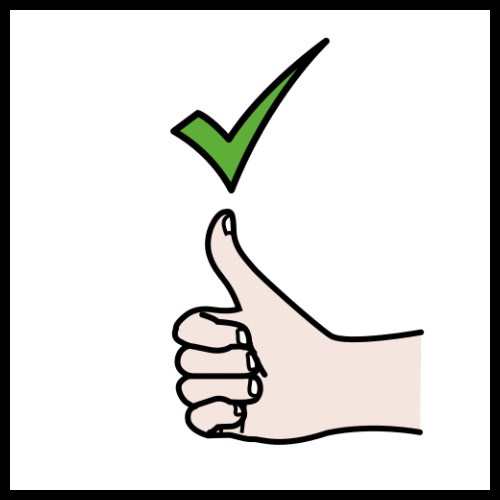
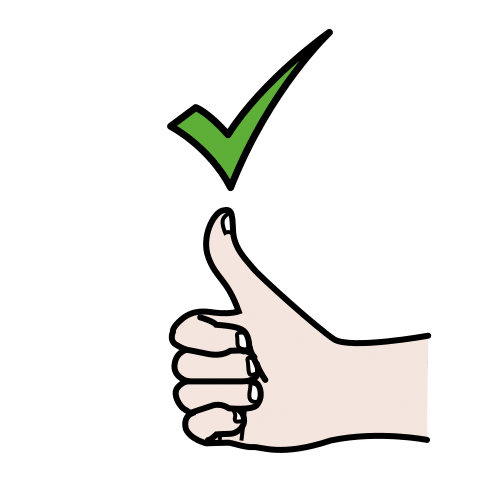
update

diff --git a/frontend/src/pages/auth/StudentLogin.tsx b/frontend/src/pages/auth/StudentLogin.tsx
@@ -49,6 +49,13 @@ export default function StudentLoginUnified() {
   const [selectedPictos, setSelectedPictos] = useState<string[]>([]);
   const [loading, setLoading] = useState(false);
   const [error, setError] = useState('');
+  
+  // Touch/swipe state
+  const [touchStart, setTouchStart] = useState<number | null>(null);
+  const [touchEnd, setTouchEnd] = useState<number | null>(null);
+  
+  // Minimum swipe distance (in px)
+  const minSwipeDistance = 50;
    
   const getLayoutConfig = () => {
     const w = window.innerWidth;
@@ -226,6 +233,31 @@ export default function StudentLoginUnified() {
       setGridPage(index);
     }
   };
+  
+  // Touch handlers para swipe
+  const onTouchStart = (e: React.TouchEvent) => {
+    setTouchEnd(null);
+    setTouchStart(e.targetTouches[0].clientX);
+  };
+  
+  const onTouchMove = (e: React.TouchEvent) => {
+    setTouchEnd(e.targetTouches[0].clientX);
+  };
+  
+  const onTouchEnd = () => {
+    if (!touchStart || !touchEnd) return;
+    
+    const distance = touchStart - touchEnd;
+    const isLeftSwipe = distance > minSwipeDistance;
+    const isRightSwipe = distance < -minSwipeDistance;
+    
+    if (isLeftSwipe && gridPage < totalPages - 1) {
+      setGridPage(prev => prev + 1);
+    }
+    if (isRightSwipe && gridPage > 0) {
+      setGridPage(prev => prev - 1);
+    }
+  };
 
   const getLetterFromAlias = (alias?: string) => {
     if (!alias) return '?'; 
@@ -279,7 +311,7 @@ export default function StudentLoginUnified() {
                                 disabled={loading || selectedPictos.filter(p => p !== '').length !== REQUIRED_LENGTH}
                                 aria-label="Confirmar contraseña"
                             >
-                                {loading ? <IonSpinner name="dots" /> : <img src="/assets/pictograms/correcto.png" alt="" aria-hidden="true" style={{width: '24px', height: '24px'}} />}
+                                {loading ? <IonSpinner name="dots" /> : <img src="/assets/pictograms/correcto.png" alt="" aria-hidden="true" />}
                             </Button3Dtext>
                         ) : (
                             <Button3Dtext 
@@ -288,7 +320,7 @@ export default function StudentLoginUnified() {
                                 disabled={loading || !selectedGridItem}
                                 aria-label="Confirmar selección"
                             >
-                                <img src="/assets/pictograms/correcto.png" alt="" aria-hidden="true" style={{width: '24px', height: '24px'}} />
+                                <img src="/assets/pictograms/correcto.png" alt="" aria-hidden="true" />
                             </Button3Dtext>
                         )}
                     </div>
@@ -309,7 +341,12 @@ export default function StudentLoginUnified() {
                 
                 {currentPhase !== 'PASSWORD' ? (
                     /* MODO GRID (GRUPOS O ALUMNOS) */
-                    <div className={`st-card-wrapper st-anim-pop-in ${layout.cssClass}`}>
+                    <div 
+                        className={`st-card-wrapper st-anim-pop-in ${layout.cssClass}`}
+                        onTouchStart={onTouchStart}
+                        onTouchMove={onTouchMove}
+                        onTouchEnd={onTouchEnd}
+                    >
                         
                         {loading ? (
                              <div className={`st-grid-inner ${layout.cssClass}`}>
@@ -397,6 +434,12 @@ export default function StudentLoginUnified() {
                                         key={index} 
                                         className={`st-pass-slot ${picto ? 'filled' : ''}`}
                                         onClick={() => picto && removePictoAtIndex(index)}
+                                        onKeyDown={(e) => {
+                                            if (picto && (e.key === 'Enter' || e.key === ' ')) {
+                                                e.preventDefault();
+                                                removePictoAtIndex(index);
+                                            }
+                                        }}
                                         role="button"
                                         aria-label={picto ? `Eliminar pictograma ${picto.name}` : `Espacio vacío ${index + 1}`}
                                         tabIndex={0}

diff --git a/frontend/src/pages/auth/StudentLogin.css b/frontend/src/pages/auth/StudentLogin.css
@@ -48,12 +48,14 @@
   justify-content: center;
 }
 
-/* Asegurar que IonIcon y IonSpinner tengan el mismo tamaño */
+/* Asegurar que IonIcon, IonSpinner e imágenes tengan el mismo tamaño */
 .st-button-scale ion-icon,
-.st-button-scale ion-spinner {
+.st-button-scale ion-spinner,
+.st-button-scale img {
   font-size: 24px;
   width: 24px;
   height: 24px;
+  object-fit: contain;
 }
 
 /* AJUSTE PARA MÓVILES (pantallas estrechas) */
@@ -159,8 +161,20 @@
   position: relative; overflow: hidden; cursor: pointer;
   width: 100%; aspect-ratio: 1 / 1;
   display: flex; align-items: center; justify-content: center;
+  outline: none;
+}
+.st-grid-btn:focus-visible {
+  outline: 5px solid #FFD700;
+  outline-offset: 4px;
+  box-shadow: 0 0 0 8px rgba(255, 215, 0, 0.4);
+  z-index: 5;
 }
 .st-grid-btn.selected { border-color: var(--ion-color-success); background: #f0fff4; box-shadow: inset 0 0 0 3px var(--ion-color-success); }
+.st-grid-btn.selected:focus-visible {
+  outline: 5px solid #FFD700;
+  outline-offset: 4px;
+  box-shadow: 0 0 0 8px rgba(255, 215, 0, 0.5), inset 0 0 0 3px var(--ion-color-success);
+}
 .st-grid-btn.ghost { opacity: 1; pointer-events: none; background: rgba(255, 255, 255, 0.3); border: 3px dashed rgba(255, 255, 255, 0.6); box-shadow: none; transform: none !important; }
 .st-grid-btn.ghost.loading { animation: ghostPulse 1.5s infinite ease-in-out; border-style: solid; }
 
@@ -238,6 +252,14 @@
     cursor: pointer; 
     box-shadow: 0 4px 0 rgba(0,0,0,0.2); 
     transition: transform 0.1s;
+    outline: none;
+}
+
+.st-pass-key:focus-visible {
+    outline: 5px solid #FFD700;
+    outline-offset: 4px;
+    box-shadow: 0 0 0 10px rgba(255, 215, 0, 0.5), 0 4px 0 rgba(0,0,0,0.2);
+    z-index: 5;
 }
 
 .st-pass-key:active { 
@@ -276,8 +298,13 @@
     border-style: solid; 
     border-color: var(--ion-color-success); 
     cursor: pointer;
-    transition: transform 0.2s, box-shadow 0.2s;
+    transition: transform 0.2s, box-shadow 0.2s, border-color 0.2s;
     position: relative;
+}
+.st-pass-slot.filled:hover {
+    border-color: #dc2626;
+    box-shadow: 0 0 0 3px rgba(220, 38, 38, 0.3);
+    transform: scale(1.05);
 }
 .st-pass-slot.filled:active {
     transform: scale(0.95);
@@ -303,6 +330,11 @@
     box-shadow: 0 2px 8px rgba(0,0,0,0.3);
     pointer-events: none;
     z-index: 10;
+    transition: transform 0.2s, box-shadow 0.2s;
+}
+.st-pass-slot.filled:hover .st-slot-delete {
+    transform: scale(1.2);
+    box-shadow: 0 4px 12px rgba(220, 38, 38, 0.6);
 }
 .st-slot-delete ion-icon {
     font-size: 1.3rem;
